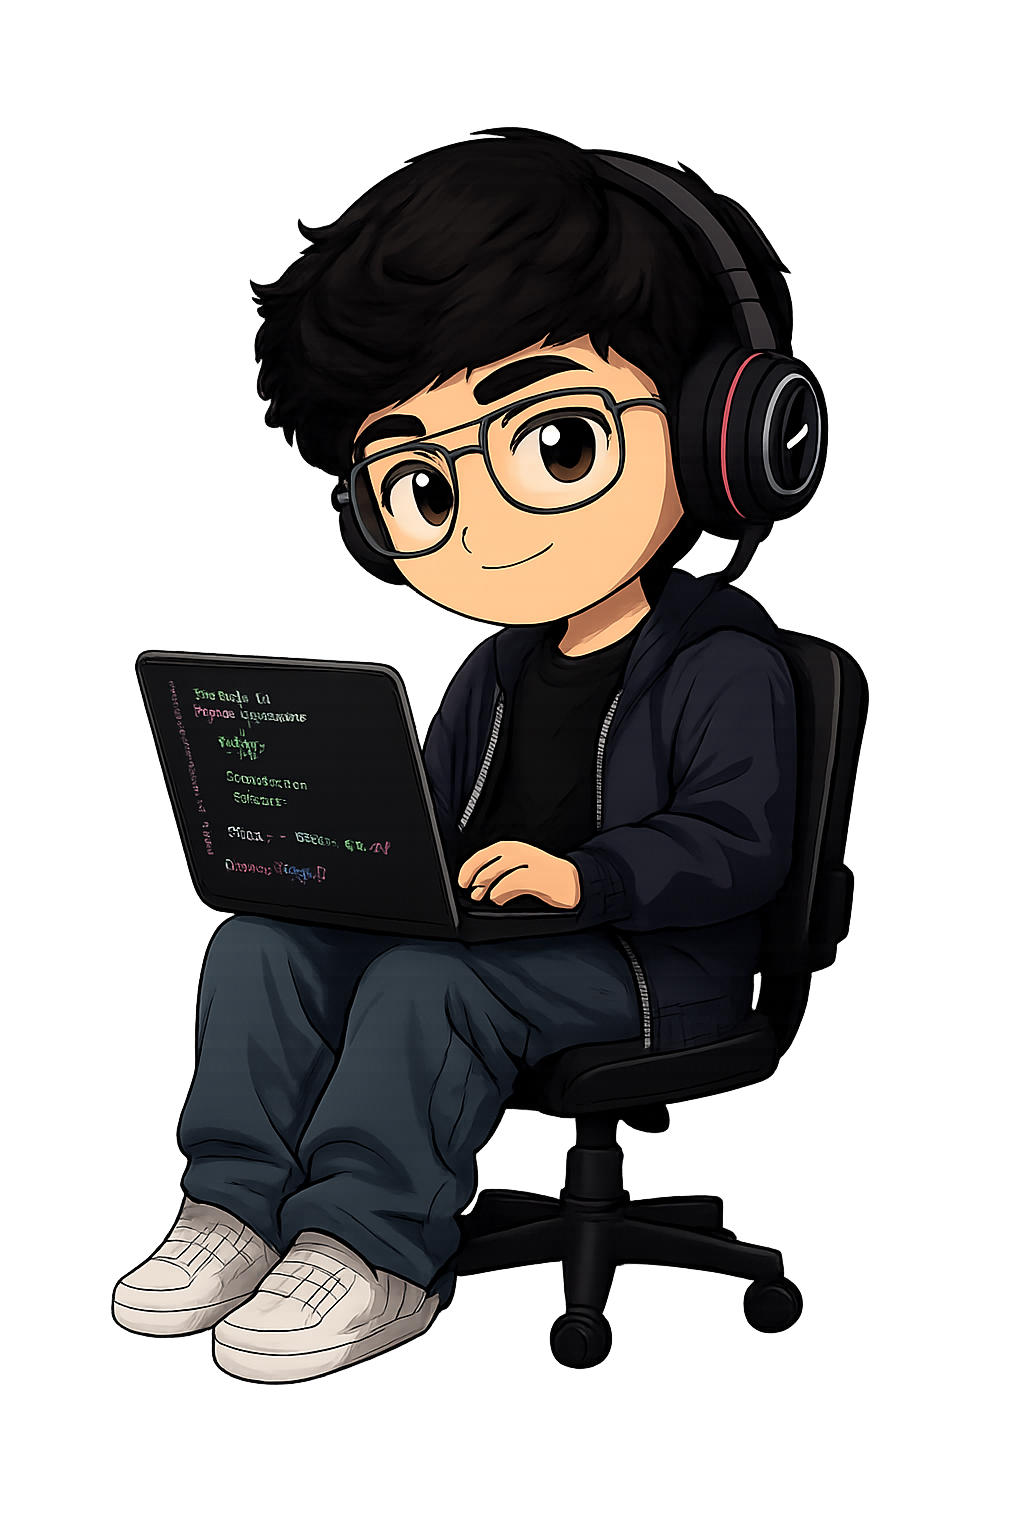
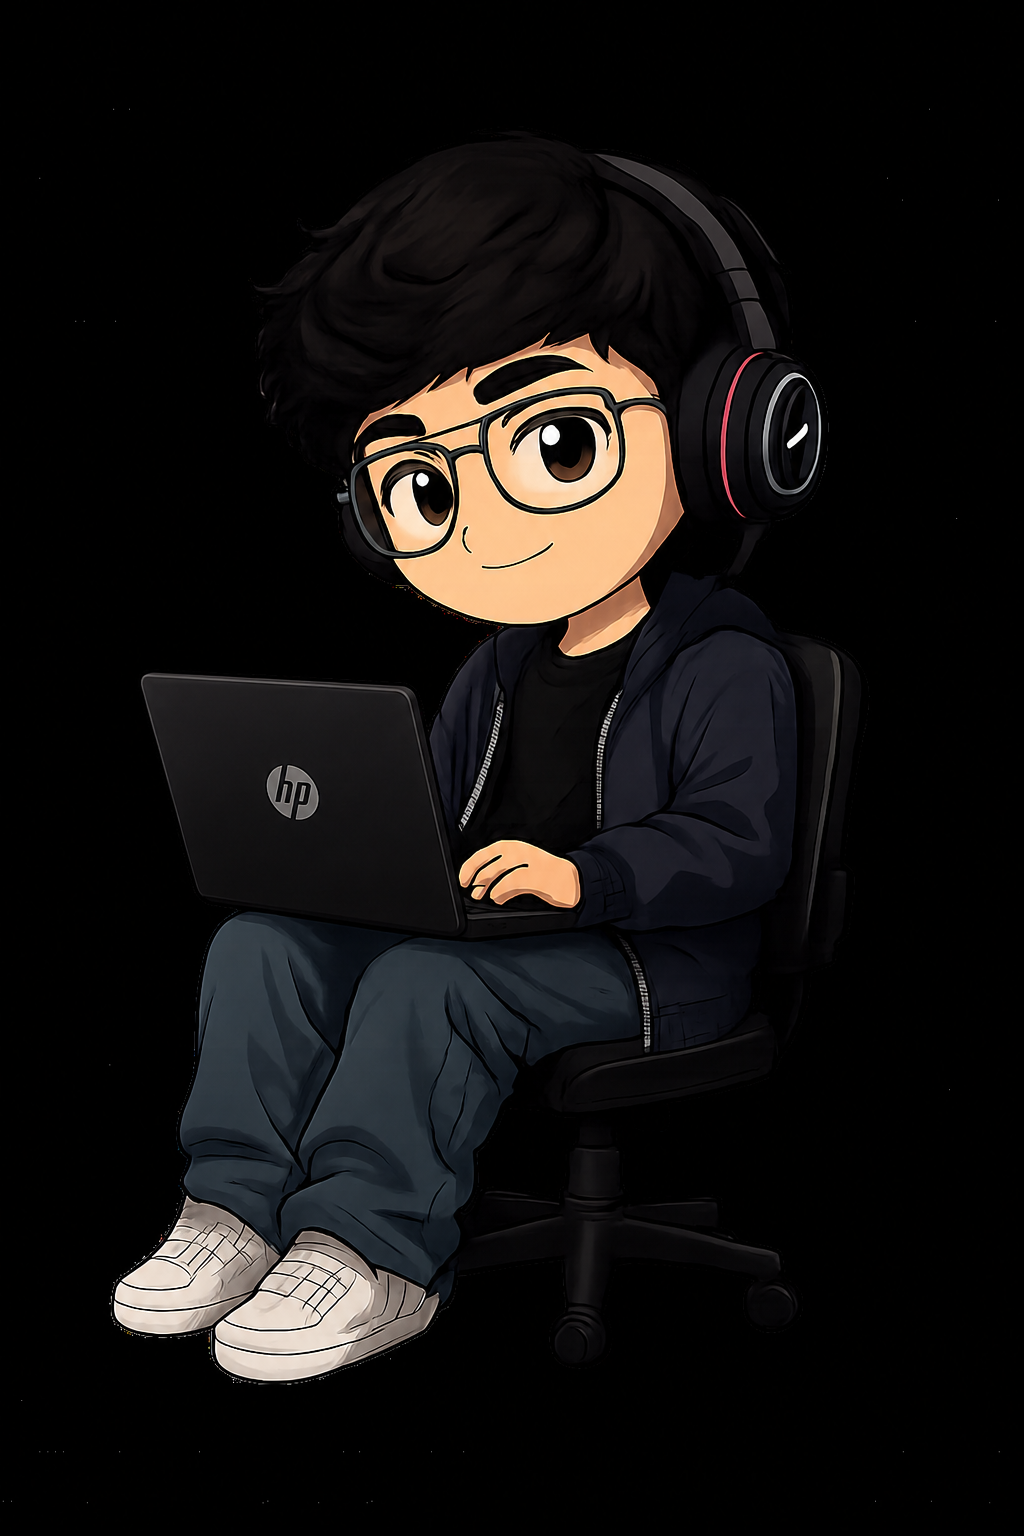
fix:sidebar

diff --git a/front/src/styles/components/header.css b/front/src/styles/components/header.css
@@ -1,7 +1,8 @@
-.blur{
+.blur {
   backdrop-filter: blur(13px);
   -webkit-backdrop-filter: blur(13px);
 }
+
 .header {
   display: flex;
   width: 100%;
@@ -26,14 +27,17 @@
 .menu__list {
   list-style: none;
 }
+
 .menu__list--lang {
   padding: 0;
   align-items: center;
   margin-top: 0.4rem;
 }
+
 .menu__list--lang:hover {
   background-color: transparent;
 }
+
 .lang-switcher {
   position: relative;
   width: 5.4rem;
@@ -41,6 +45,7 @@
   display: flex;
   align-items: center;
 }
+
 .lang-switcher .radio-input {
   position: absolute;
   left: 0;
@@ -74,12 +79,10 @@
   top: -0.15em;
   left: -0.15em;
   border-radius: inherit;
-  background: linear-gradient(
-    -135deg,
-    rgba(5, 5, 5, 0.5),
-    transparent 20%,
-    transparent 100%
-  );
+  background: linear-gradient(-135deg,
+      rgba(5, 5, 5, 0.5),
+      transparent 20%,
+      transparent 100%);
   filter: blur(0.0125em);
   opacity: 0.25;
   mix-blend-mode: multiply;
@@ -110,11 +113,9 @@
   z-index: 1;
   border-radius: inherit;
   padding: 0.4em 1.4em;
-  background-image: linear-gradient(
-    135deg,
-    rgba(230, 230, 230, 1),
-    rgba(180, 180, 180, 1)
-  );
+  background-image: linear-gradient(135deg,
+      rgba(230, 230, 230, 1),
+      rgba(180, 180, 180, 1));
   transition:
     box-shadow 300ms ease,
     clip-path 250ms ease,
@@ -124,30 +125,39 @@
   overflow: clip;
   clip-path: inset(0 0 0 0 round 100em);
   box-shadow:
-        /* 1 */
+    /* 1 */
     0 0 0 0 inset rgba(5, 5, 5, 0.1),
-    /* 2 */ -0.05em -0.05em 0.05em 0 inset rgba(5, 5, 5, 0.25),
-    /* 3 */ 0 0 0 0 inset rgba(5, 5, 5, 0.1),
-    /* 4 */ 0 0 0.05em 0.2em inset rgba(255, 255, 255, 0.25),
-    /* 5 */ 0.025em 0.05em 0.1em 0 inset rgba(255, 255, 255, 1),
-    /* 6 */ 0.12em 0.12em 0.12em inset rgba(255, 255, 255, 0.25),
-    /* 7 */ -0.075em -0.25em 0.25em 0.1em inset rgba(5, 5, 5, 0.25);
+    /* 2 */
+    -0.05em -0.05em 0.05em 0 inset rgba(5, 5, 5, 0.25),
+    /* 3 */
+    0 0 0 0 inset rgba(5, 5, 5, 0.1),
+    /* 4 */
+    0 0 0.05em 0.2em inset rgba(255, 255, 255, 0.25),
+    /* 5 */
+    0.025em 0.05em 0.1em 0 inset rgba(255, 255, 255, 1),
+    /* 6 */
+    0.12em 0.12em 0.12em inset rgba(255, 255, 255, 0.25),
+    /* 7 */
+    -0.075em -0.25em 0.25em 0.1em inset rgba(5, 5, 5, 0.25);
 }
 
 .menu__link.button:hover .button-inner {
-  clip-path: inset(
-    clamp(1px, 0.0625em, 2px) clamp(1px, 0.0625em, 2px)
-      clamp(1px, 0.0625em, 2px) clamp(1px, 0.0625em, 2px) round 100em
-  );
+  clip-path: inset(clamp(1px, 0.0625em, 2px) clamp(1px, 0.0625em, 2px) clamp(1px, 0.0625em, 2px) clamp(1px, 0.0625em, 2px) round 100em);
   box-shadow:
-        /* 1 */
+    /* 1 */
     0.1em 0.15em 0.05em 0 inset rgba(5, 5, 5, 0.75),
-    /* 2 */ -0.025em -0.03em 0.05em 0.025em inset rgba(5, 5, 5, 0.5),
-    /* 3 */ 0.25em 0.25em 0.2em 0 inset rgba(5, 5, 5, 0.5),
-    /* 4 */ 0 0 0.05em 0.5em inset rgba(255, 255, 255, 0.15),
-    /* 5 */ 0 0 0 0 inset rgba(255, 255, 255, 1),
-    /* 6 */ 0.12em 0.12em 0.12em inset rgba(255, 255, 255, 0.25),
-    /* 7 */ -0.075em -0.12em 0.2em 0.1em inset rgba(5, 5, 5, 0.25);
+    /* 2 */
+    -0.025em -0.03em 0.05em 0.025em inset rgba(5, 5, 5, 0.5),
+    /* 3 */
+    0.25em 0.25em 0.2em 0 inset rgba(5, 5, 5, 0.5),
+    /* 4 */
+    0 0 0.05em 0.5em inset rgba(255, 255, 255, 0.15),
+    /* 5 */
+    0 0 0 0 inset rgba(255, 255, 255, 1),
+    /* 6 */
+    0.12em 0.12em 0.12em inset rgba(255, 255, 255, 0.25),
+    /* 7 */
+    -0.075em -0.12em 0.2em 0.1em inset rgba(5, 5, 5, 0.25);
 }
 
 .menu__link.button .button-inner span {
@@ -159,11 +169,9 @@
   font-size: 1.2rem;
   line-height: 1.1;
   color: rgba(0, 0, 0, 0);
-  background-image: linear-gradient(
-    135deg,
-    rgba(25, 25, 25, 1),
-    rgba(75, 75, 75, 1)
-  );
+  background-image: linear-gradient(135deg,
+      rgba(25, 25, 25, 1),
+      rgba(75, 75, 75, 1));
   -webkit-background-clip: text;
   background-clip: text;
   transition: transform 250ms ease;
@@ -225,7 +233,7 @@
   align-items: center;
 }
 
-.choice > div {
+.choice>div {
   position: relative;
   width: 41px;
   height: 41px;
@@ -261,7 +269,7 @@
   background-color: rgb(232, 232, 232, 1);
 }
 
-.choice-circle:checked + .ball {
+.choice-circle:checked+.ball {
   transform: translateX(0px);
 }
 
@@ -272,57 +280,111 @@
   font-family: monospace;
   cursor: pointer;
 }
-/* Menu hamburguesa */
-.panel__btn {
+
+/* ============================================
+   Menu hamburguesa (Uiverse.io by vk-uiux)
+   Fijo junto al header, centrado verticalmente
+   con el texto "Gerald", color plomo
+   ============================================ */
+#checkbox {
+  display: none;
+}
+
+.toggle.panel__btn {
   position: fixed;
-  z-index: 9999;
-  bottom: 7%;
-  right: 1.5%;
-  width: 6rem;
-  height: 6rem;
-  padding: 0;
-  display: flex;
-  justify-content: center;
-  align-items: center;
-  background: rgba(17, 0, 46, 0.684);
-  box-shadow: 0 8px 32px 0 rgba(31, 38, 135, 0.37);
-  backdrop-filter: blur(14px);
-  -webkit-backdrop-filter: blur(14px);
-  border-radius: 50%;
-  border: 2px solid ;
-  border-color: var(--green-terminal);
+  z-index: 250;
+  top: 4rem;
+  /* valor inicial, el JS lo recalcula con precisión al cargar */
+  right: calc(2% + 1rem);
+  transform: translateY(-50%);
+  width: 40px;
+  cursor: pointer;
+  margin: 0;
+  display: block;
+  height: calc(4px * 3 + 11px * 2);
 }
-.hamburger-inner {
-  filter: invert(71%) sepia(97%) saturate(2165%) hue-rotate(89deg) brightness(105%) contrast(107%);
+
+.bar {
+  position: absolute;
+  left: 0;
+  right: 0;
+  height: 4px;
+  border-radius: calc(4px / 2);
+  background: #9a9a9a;
+  /* plomo */
+  color: inherit;
+  opacity: 1;
+  transition: none 0.35s cubic-bezier(.5, -0.35, .35, 1.5) 0s;
 }
+
+/***** Collapse Animation *****/
+.bar--top {
+  bottom: calc(50% + 11px + 4px/ 2);
+  transition-property: bottom, margin, transform;
+  transition-delay: calc(0s + 0.35s), 0s, 0s;
+}
+
+.bar--middle {
+  top: calc(50% - 4px/ 2);
+  transition-property: top, opacity;
+  transition-duration: 0.35s, 0s;
+  transition-delay: calc(0s + 0.35s * 1.3), calc(0s + 0.35s * 1.3);
+}
+
+.bar--bottom {
+  top: calc(50% + 11px + 4px/ 2);
+  transition-property: top, transform;
+  transition-delay: 0s;
+}
+
+#checkbox:checked+.toggle .bar--top {
+  bottom: calc(50% - 11px - 4px);
+  margin-bottom: calc(11px + 4px/ 2);
+  transform: rotate(45deg);
+  transition-delay: calc(0s + 0.35s * .3), calc(0s + 0.35s * 1.3), calc(0s + 0.35s * 1.3);
+}
+
+#checkbox:checked+.toggle .bar--middle {
+  top: calc(50% + 11px);
+  opacity: 0;
+  transition-duration: 0.35s, 0s;
+  transition-delay: 0s, calc(0s + 0.35s);
+}
+
+#checkbox:checked+.toggle .bar--bottom {
+  top: calc(50% - 4px/ 2);
+  transform: rotate(-45deg);
+  transition-delay: calc(0s + 0.35s * 1.3), calc(0s + 0.35s * 1.3);
+}
+
+/* Panel lateral: sale desde la IZQUIERDA, ocupa 60% del ancho,
+   fondo azul marino sólido */
 .panel {
   position: fixed;
-  min-width: 100vw;
+  width: 60vw;
+  min-width: 60vw;
   min-height: 100vh;
   text-align: center;
   z-index: 997;
   top: 0;
-  right: 0;
+  left: 0;
   backdrop-filter: blur(16px);
   -webkit-backdrop-filter: blur(16px);
   transition: transform 0.3s ease;
-  transform: translate(100%, 0);
-  /* transform: translate(0, -100%); */
-  /* transform: translate(-100%, 0); */
-  /* transform: translate(0, 100%); */
+  transform: translate(-100%, 0);
 }
-
 
 .panel.is-active {
   display: flex;
   align-items: center;
   transform: translate(0, 0);
-  background: rgba(17, 0, 46, 0.684);
+  background: rgba(10, 26, 63, 0.5);
+  /* azul marino 50% transparente */
   box-shadow: 0 8px 32px 0 rgba(31, 38, 135, 0.37);
-  border-radius: 3rem 0;
+  border-radius: 0 3rem 3rem 0;
   border: 1px solid rgba(255, 255, 255, 0.18);
-
 }
+
 .menu__hamburger-link {
   display: block;
   font-size: 3rem;
@@ -333,6 +395,7 @@
   text-align: left;
   color: var(--green-terminal);
 }
+
 .menu__ul {
   display: flex;
   width: inherit;
@@ -343,19 +406,27 @@
   margin-top: 3rem;
   gap: 2.4rem;
 }
+
+/* Avatar circular en el sidebar */
 .menu__avatar {
   width: 5rem;
+  height: 5rem;
+  border-radius: 50%;
+  object-fit: cover;
   margin-bottom: 0;
 }
+
 /* TABLET VIEW */
 @media screen and (min-width: 768px) {
   .header {
     padding: 0 1.8rem;
     justify-content: space-between;
   }
+
   .dark-mode .header {
     box-shadow: 0 8px 32px 0 rgba(31, 38, 135, 0.37);
     border: 1px solid rgba(255, 255, 255, 0.18);
+
     .panel__styles {
       background: transparent;
       box-shadow: unset;
@@ -364,18 +435,20 @@
     }
   }
 
-  /* menu hamburguesa */
-  .panel__btn,
+  /* menu hamburguesa: se oculta en desktop, ya no hace falta */
+  .toggle.panel__btn,
   .menu__avatar {
     display: none;
   }
+
   .panel {
     position: unset;
+    width: unset;
     min-width: unset;
     min-height: unset;
     text-align: unset;
     top: unset;
-    right: unset;
+    left: unset;
     backdrop-filter: unset;
     -webkit-backdrop-filter: unset;
   }
@@ -421,6 +494,7 @@
     align-items: flex-end;
     transition: 0.5s ease-in-out;
   }
+
   .menu__list--lang {
     padding: 0;
     margin-left: auto;
@@ -434,12 +508,13 @@
     border-radius: 0;
   }
 
-.menu__link {
+  .menu__link {
     text-decoration: none;
     font-size: 1.55rem;
     font-weight: 500;
     color: var(--seccond-color);
   }
+
   .menu__link:not(.button):hover {
     color: var(--blue);
     transform: scale(1.1);
@@ -459,9 +534,11 @@
     width: 100%;
     justify-content: flex-end;
   }
+
   .menu__list {
     padding: 0.55rem 0.95rem;
   }
+
   .menu__list--lang {
     padding: 0;
     margin-left: auto;
